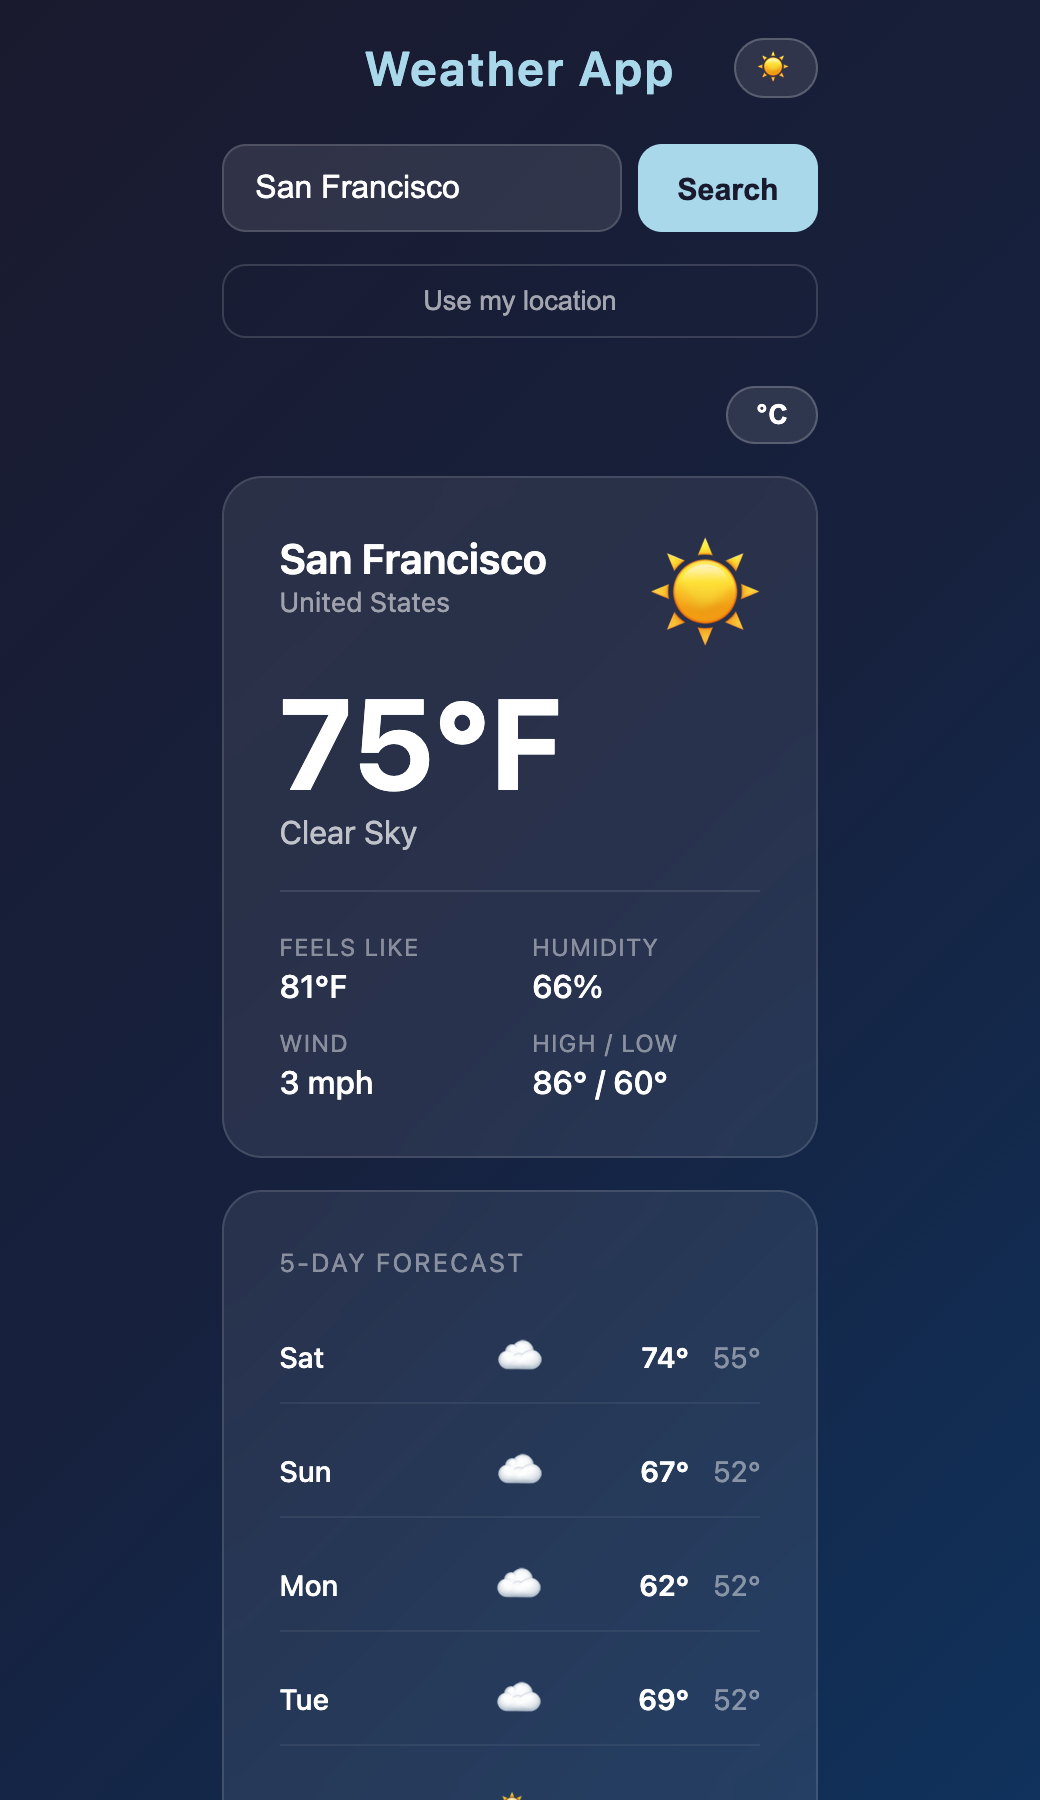
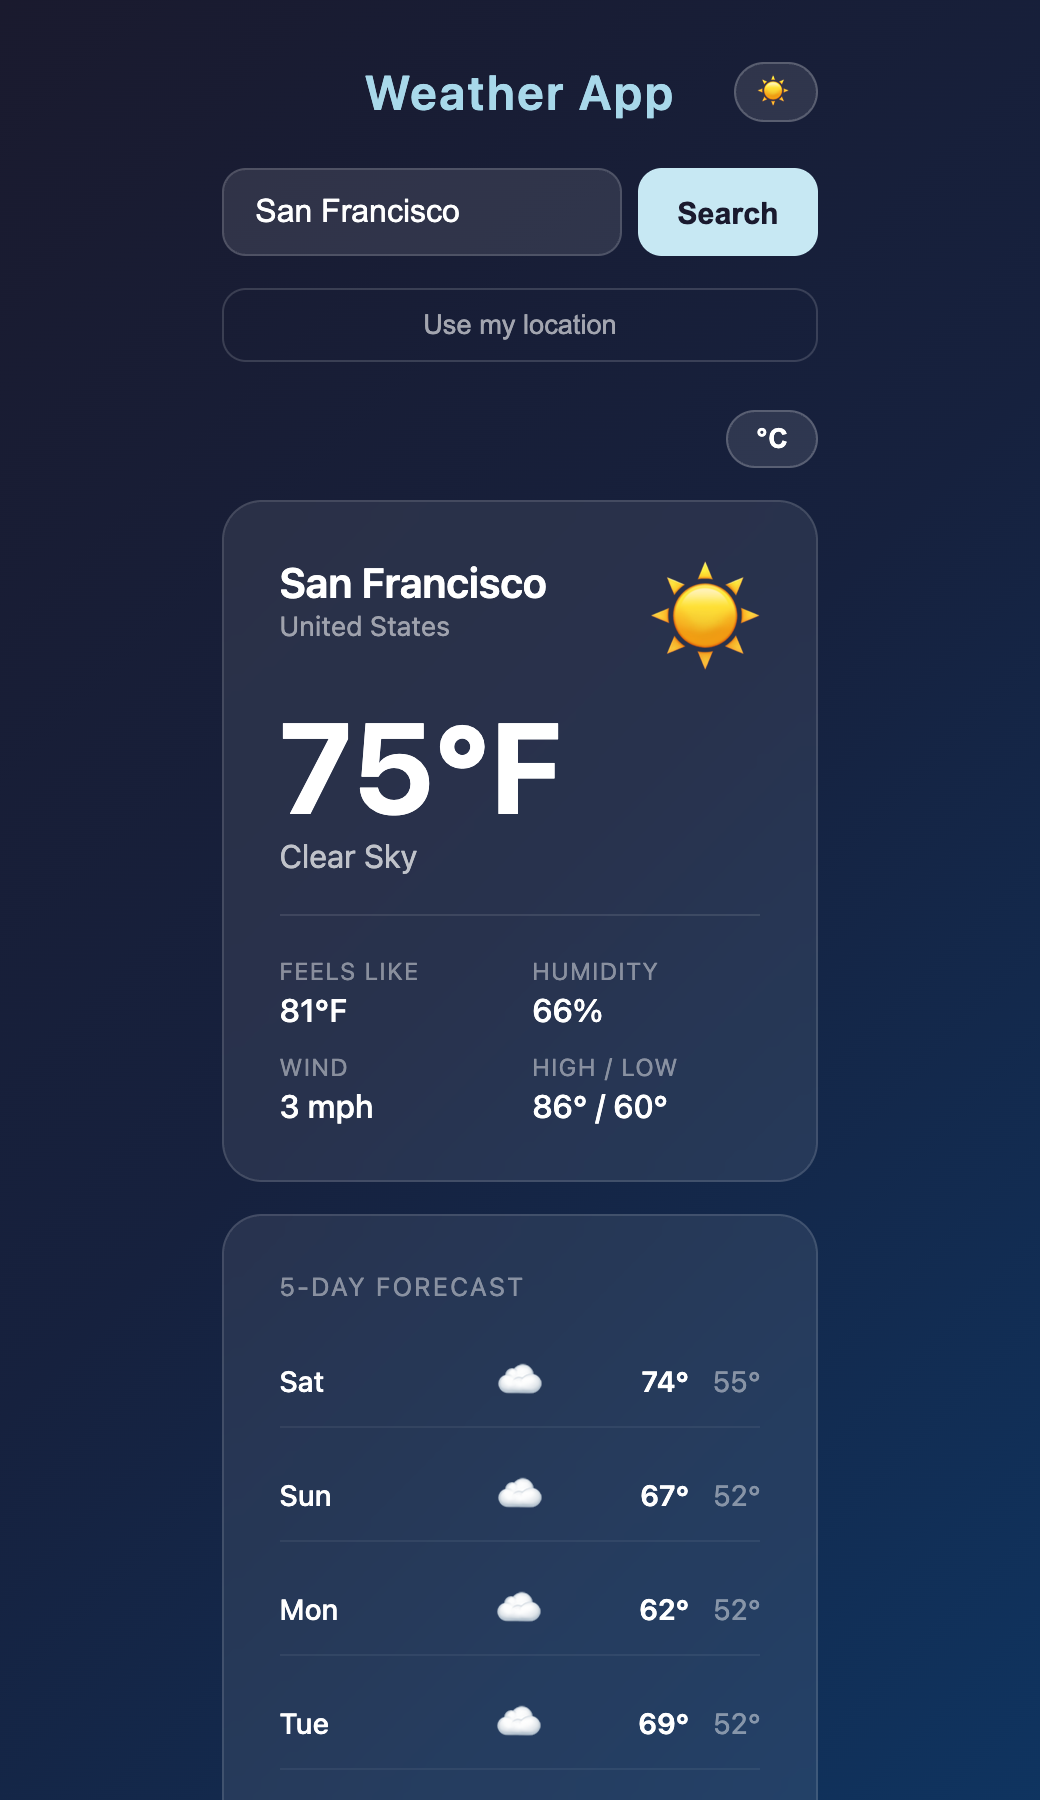
Make app mobile responsive
- Switch body to flex-start alignment so content scrolls naturally on small screens
- Use 100dvh for accurate mobile viewport height
- Add safe-area-inset padding for notched phones
- Pin background gradient with background-attachment: fixed
- Reduce card padding, border-radius, and font sizes on screens <= 400px

diff --git a/index.html b/index.html
@@ -13,11 +13,15 @@
     body {
       font-family: -apple-system, BlinkMacSystemFont, 'Segoe UI', sans-serif;
       min-height: 100vh;
+      min-height: 100dvh;
       background: linear-gradient(135deg, #1a1a2e 0%, #16213e 50%, #0f3460 100%);
+      background-attachment: fixed;
       display: flex;
-      align-items: center;
+      align-items: flex-start;
       justify-content: center;
-      padding: 20px;
+      padding: 32px 20px;
+      padding-top: max(32px, env(safe-area-inset-top));
+      padding-bottom: max(32px, env(safe-area-inset-bottom));
       color: #fff;
     }
 
@@ -260,6 +264,18 @@
     .placeholder-icon { font-size: 4rem; margin-bottom: 12px; }
     .placeholder-text { font-size: 0.95rem; }
 
+    @media (max-width: 400px) {
+      body { padding-left: 12px; padding-right: 12px; }
+
+      .card { padding: 20px; border-radius: 16px; }
+
+      .temperature { font-size: 3.2rem; }
+
+      .weather-icon { font-size: 2.8rem; }
+
+      .locate-btn { padding: 12px; }
+    }
+
     .app-header {
       display: flex;
       align-items: center;
@@ -289,6 +305,7 @@
     /* Light mode overrides */
     body.light {
       background: linear-gradient(135deg, #e0f2fe 0%, #bae6fd 50%, #93c5fd 100%);
+      background-attachment: fixed;
       color: #1a2340;
     }
 
